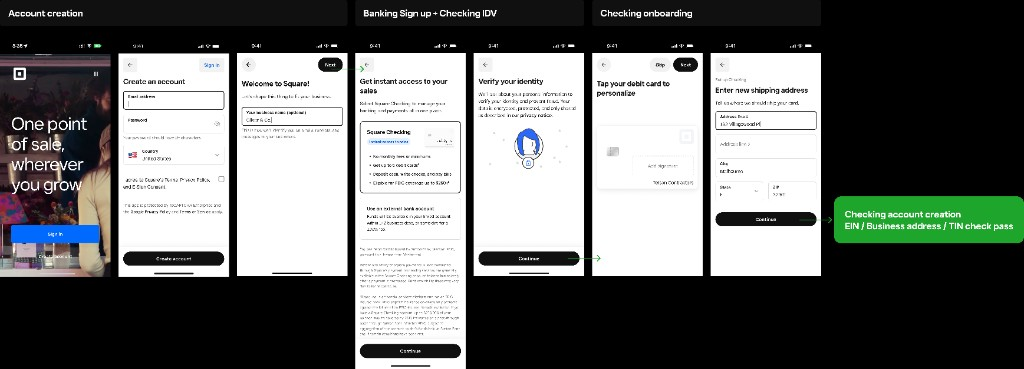
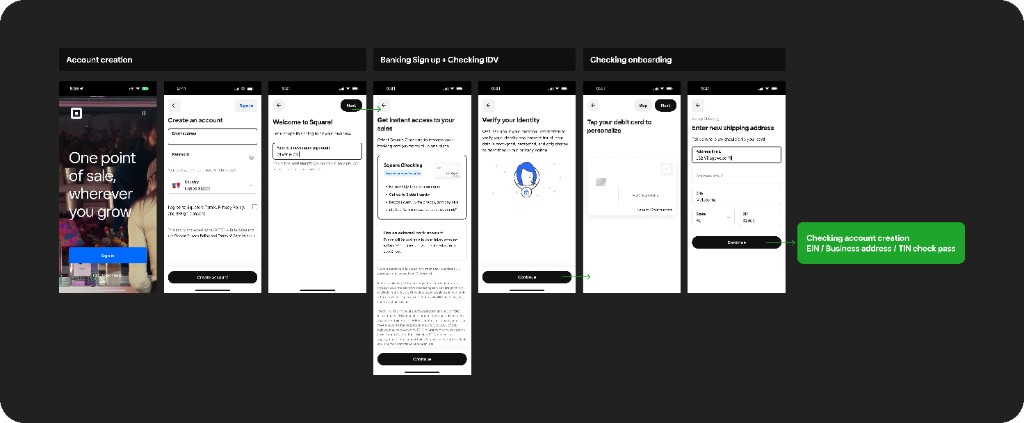
Update virtual card case study flows and situation copy.
Swap in revised before/after onboarding flow diagrams and add the 31% card-ordering skip stat to the situation section.

diff --git a/case-study-debit-card-activation.html b/case-study-debit-card-activation.html
@@ -169,7 +169,7 @@
         <section class="cs-section" id="situation">
           <h2>Situation</h2>
           <p class="cs-lead">When sellers signed up for Square Checking, they could access banking features to manage finances, move money, and spend their Square balance.</p>
-          <p>We noticed a significant drop off when sellers reached the debit card ordering step. Sellers who skipped ordering a physical card were less likely to complete Square Checking activation.</p>
+          <p>We noticed a significant drop off when sellers reached the debit card ordering step. Funnel data showed that 31% of sellers who signed up for Checking during the onboarding flow skipped card ordering, which completed their Square Checking application. They had finished signup without ordering a physical card, but the experience did not reflect that completion or give them a clear path to start spending.</p>
           <p>The initial assumption was technical: if a seller skipped card ordering, should we simply create their Checking account anyway? Through research and funnel analysis, we uncovered a deeper issue. Some sellers were not skipping because they did not want Square Checking. They were skipping because they did not want a physical debit card.</p>
           <p>Our activation experience had connected banking access to a physical card. Square Checking activation felt tied to ordering a Square Debit Card, which created friction for sellers who preferred digital wallets, did not carry physical cards, wanted immediate access before receiving a mailed card, or were unsure whether skipping the card meant losing access to their account.</p>
           <p>The experience was optimized around card fulfillment instead of seller intent.</p>
@@ -235,7 +235,7 @@
 
           <figure class="cs-figure cs-figure--flow">
             <button type="button" class="cs-flow-expand" aria-label="Expand before flow diagram">
-              <img src="checking-activation-before-flow.png?v=5" alt="Before flow showing Checking account creation only after debit card personalization and shipping address steps" width="1024" height="369" loading="lazy" decoding="async">
+              <img src="checking-activation-before-flow.png?v=6" alt="Before flow showing Checking account creation only after debit card personalization and shipping address steps" width="1024" height="423" loading="lazy" decoding="async">
               <span class="cs-flow-expand__hint">Click to enlarge</span>
             </button>
             <figcaption>Before · Checking account creation happened after physical card ordering</figcaption>
@@ -261,7 +261,7 @@
 
           <figure class="cs-figure cs-figure--flow">
             <button type="button" class="cs-flow-expand" aria-label="Expand after flow diagram">
-              <img src="checking-activation-after-flow.png?v=5" alt="After flow showing Checking account creation before optional debit card ordering with a skip option" width="1024" height="402" loading="lazy" decoding="async">
+              <img src="checking-activation-after-flow.png?v=6" alt="After flow showing Checking account creation before optional debit card ordering with a skip option" width="1024" height="423" loading="lazy" decoding="async">
               <span class="cs-flow-expand__hint">Click to enlarge</span>
             </button>
             <figcaption>After · Checking account creation moved ahead of optional physical card ordering</figcaption>